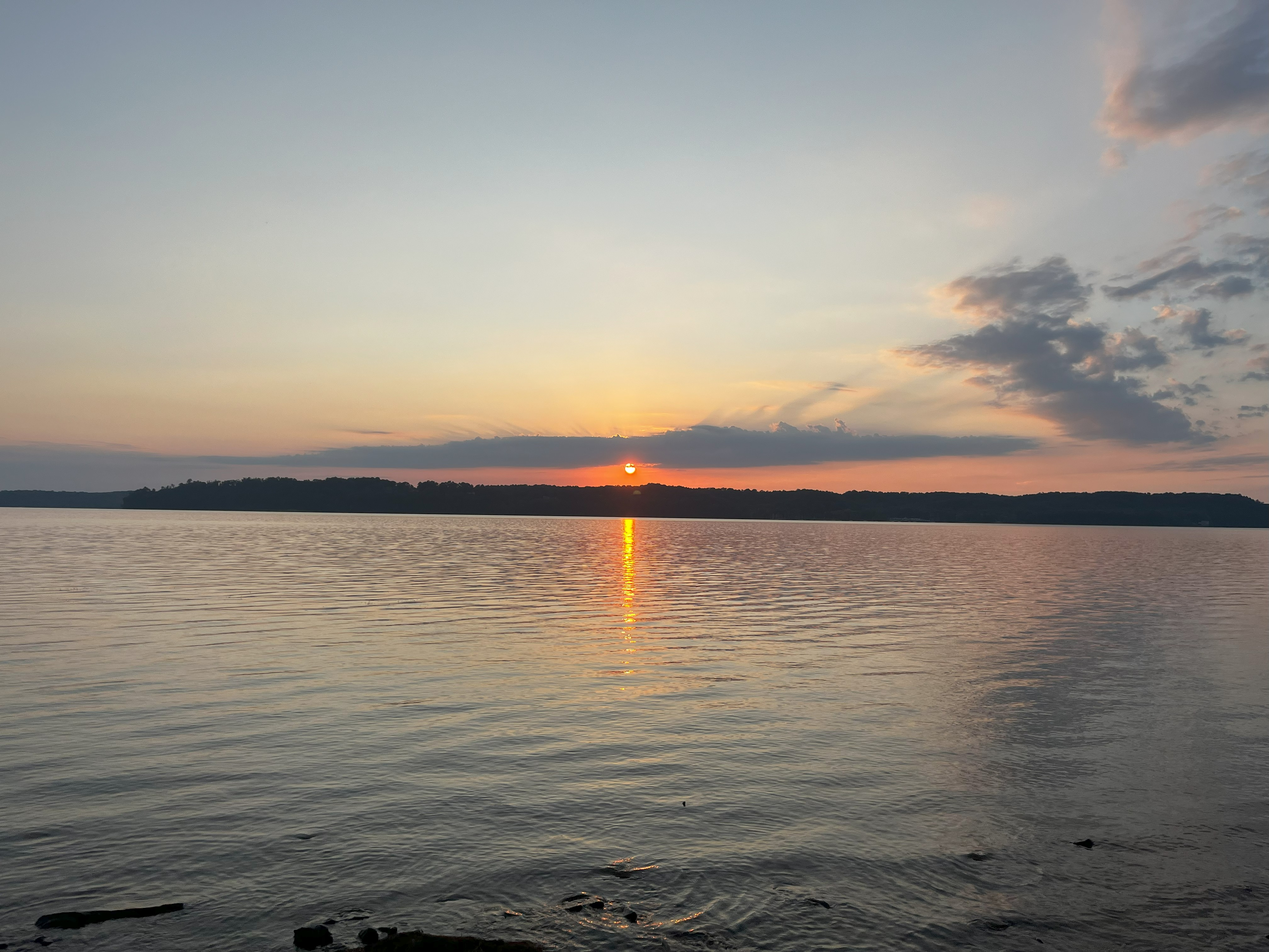
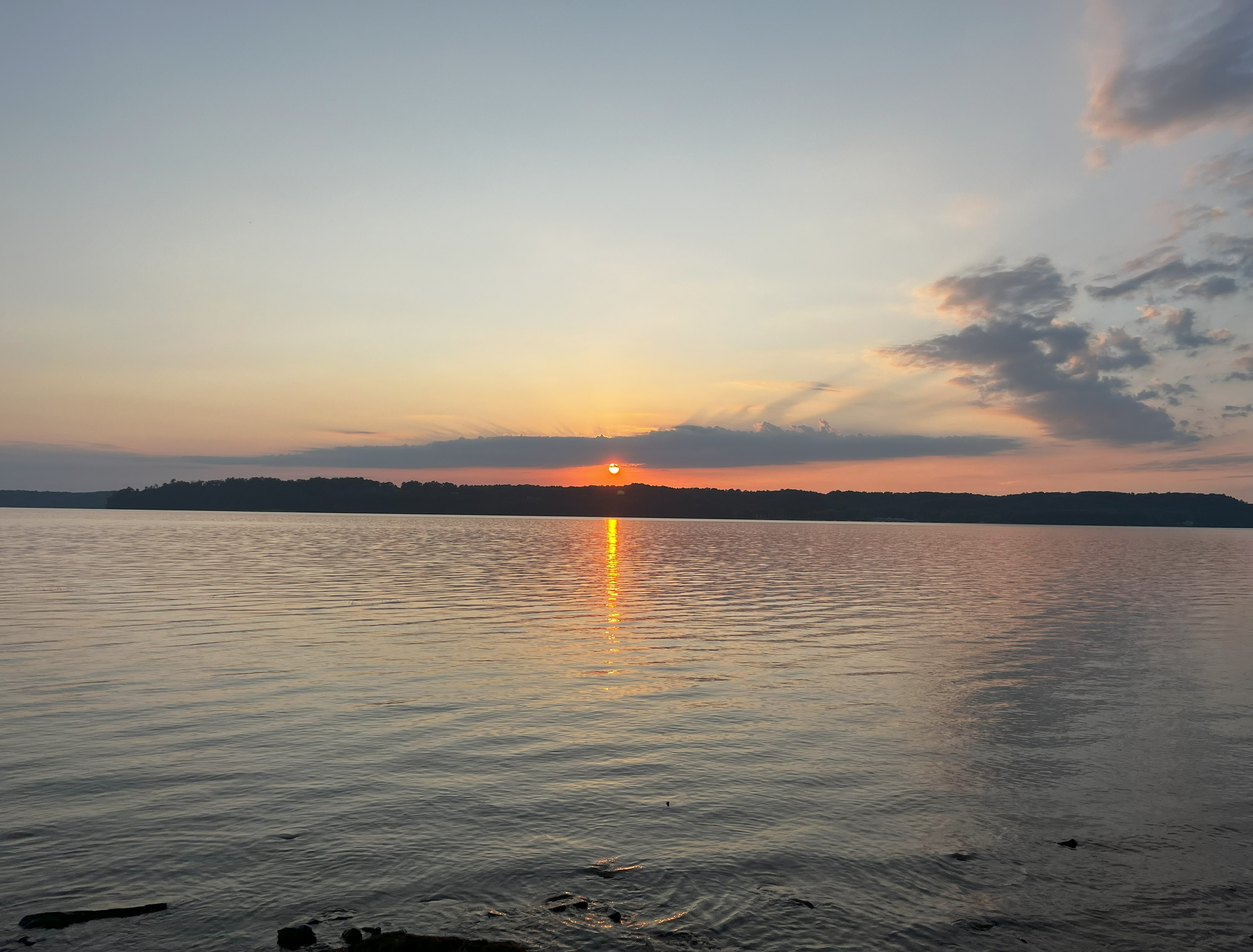
Edits to homepage

Changed region(s): [[0.0, 0.4352, 0.8412, 1.0], [0.592, 0.4352, 0.6231, 0.4663], [0.1246, 0.4974, 0.1558, 0.5284]]

diff --git a/css/styles.css b/css/styles.css
@@ -30,13 +30,28 @@ html {
 * * * * * * * * * * * * * * * * * * * * * * * * * * */
 body {
     width: 100%;
+    background-color: rgba(105,108,115,255);
+}
+
+header {
+    width: 100vw; /* Always span the full width of the viewport */
+    background-image: url('/images/sunset.jpg');
+    background-size: 100% auto; /* Width always fills, height scales naturally */
+    background-position: center center; /* Keeps focus in the center horizontally */
+    background-repeat: no-repeat;
+}
+
+header a:link, header a:visited, header a:active, header a:hover {
+    color: wheat;
+    text-shadow: 1px 1px 1px black;
+    text-decoration: none;
 }
 
 .container {
-    width: 800px;
+    width: 90%;
     margin: 35px auto;
     /* centers content */
-    border: 6px solid black;
+    border: 2px solid black;
     padding: 50px;
     background-color: white;
 }
@@ -72,31 +87,12 @@ p, figcaption, li, td {
 }
 
 .title {
-    /* text-shadow: 2px 2px 3px black ; */
-    background-image: linear-gradient(rgb(230, 190, 118), rgb(255, 41, 41));
-    background-clip: text;
-    -webkit-text-fill-color: transparent;
-    
-
     font-family: 'Monaco';
-    /* font-style: italic; */
     text-align: center;
 
     font-size: 74px;
-    margin-top: 2.0em;
-    margin-bottom: 0;
-}
-
-/* * * * * * * * * * * * * * * * * * * * * * * * * * * 
-    Links
-* * * * * * * * * * * * * * * * * * * * * * * * * * */
-a:link, a:visited {
-    color: blue;
-    text-decoration: none;
-}
-a:active, a:hover {
-    color: orangered;
-    text-decoration: underline;
+    padding-top: 1.0em;
+    padding-bottom: 1.0em;
 }
 
 /* * * * * * * * * * * * * * * * * * * * * * * * * * * 
@@ -113,12 +109,6 @@ figure {
 figcaption {
     margin-top: 1.0rem;
     font-size: 14px;
-}
-.back1 {
-    background-image: url(../images/sunset.jpg);
-    background-position: center;
-    background-attachment: fixed;
-    background-size: cover;
 }
 
 /* * * * * * * * * * * * * * * * * * * * * * * * * * * 
@@ -143,35 +133,44 @@ td {
     Page Specific
 * * * * * * * * * * * * * * * * * * * * * * * * * * */
 
-.date {
-    font-weight: bold;
-    font-style: italic;
-}
-.highlight {
-    background-color: bisque;
-    padding: 1.0rem 2.0rem 2.5rem;
-}
+
 
 /* * * * * * * * * * * * * * * * * * * * * * * * * * * 
     Menu
 * * * * * * * * * * * * * * * * * * * * * * * * * * */
 
-.menu {
-    width: auto;
-    height: 5vw;
-    float: right;
-    text-align: center;
+nav {
+    background-color: snow;
+    box-shadow: 0 3px 3px rgba(0, 0, 0, 0.35);
+    box-shadow: 3px 0 3px rgba(0, 0, 0, 0.35);
+    border-top: 2px solid black;
+    border-bottom: 2px solid black;
+
+    /*  Set position here */
+    position: sticky;
+    top: 0;
+    width: 100%;
+    z-index: 1;
 }
 ul {
-    float: left;
-	display: flex;
-	justify-content: center;
-	align-items: center;
+    display: flex;
+    list-style-type: none;
+    margin: 0;
+    padding: 0;
 }
-ul li {
-    list-style: none;
-    margin-left: 215px;
-    margin-top: -80px;
-    font-size: 1.1vw;
-    line-height: 2.0;
+li {
+    padding-top: 1.5em;
+    padding-bottom: 1.5em;
+    padding-left: 7.5%;
+    width: 20%;
+    border-right: 1px solid darkgray;
+}
+
+li a:link, li a:visited {
+    color: black;
+    text-decoration: none;
+}
+li a:active, li a:hover {
+    color: gray;
+    text-decoration: underline;
 }

diff --git a/html/index.html b/html/index.html
@@ -9,21 +9,31 @@
     <link rel="stylesheet" href="../css/normazlize.css">
     <link rel="stylesheet" href="../css/styles.css">
 </head>
-<body class="back1">
-
-    <div class="menu">
+<body>
+    <div>
+        <header class="title">
+            <a href="index.html">SEAN PLETZ</a>
+        </header>
+    </div>
+    
+    <nav>
         <ul>
             <li><a href="index.html">Home</a></li>
             <li><a href="bio.html">About</a></li>
             <li><a href="resume.html">Resume</a></li>
             <li><a href="https://github.com/smpletz">GitHub</a></li>
-            <li><a href="socials.html">Socials</a></li>
+            <li><a href="contact.html">Contact</a></li>
         </ul>
+    </nav>
 
-    </div>
+    <div class="container">
+        <h1>
+            Welcome!
+        </h1>
+        <p>
 
-    <div class="title">
-        SEAN PLETZ
+        </p>
     </div>
+    
 </body>
 </html>
